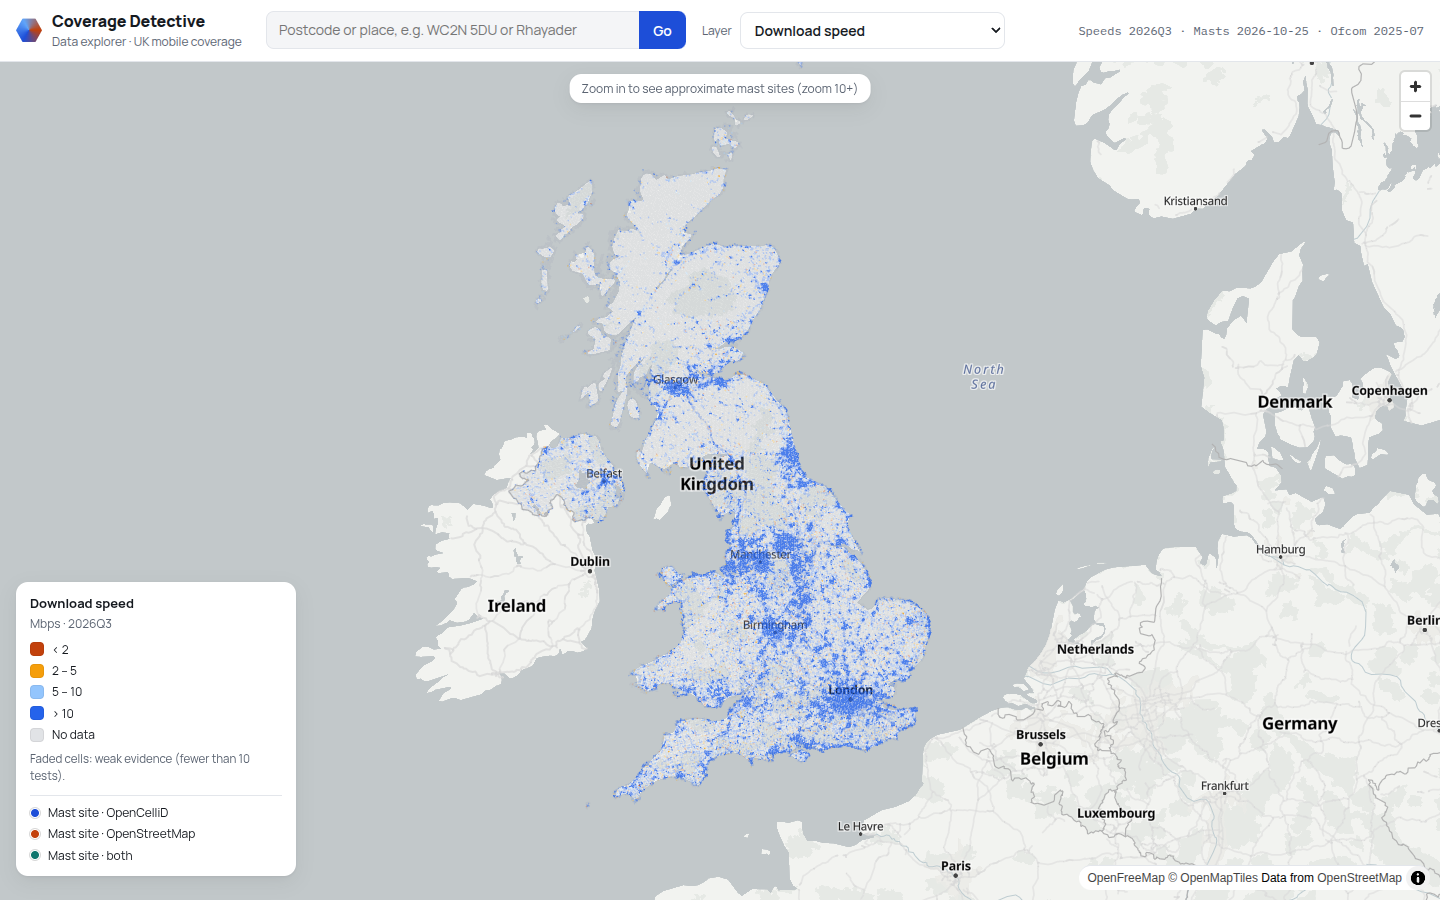
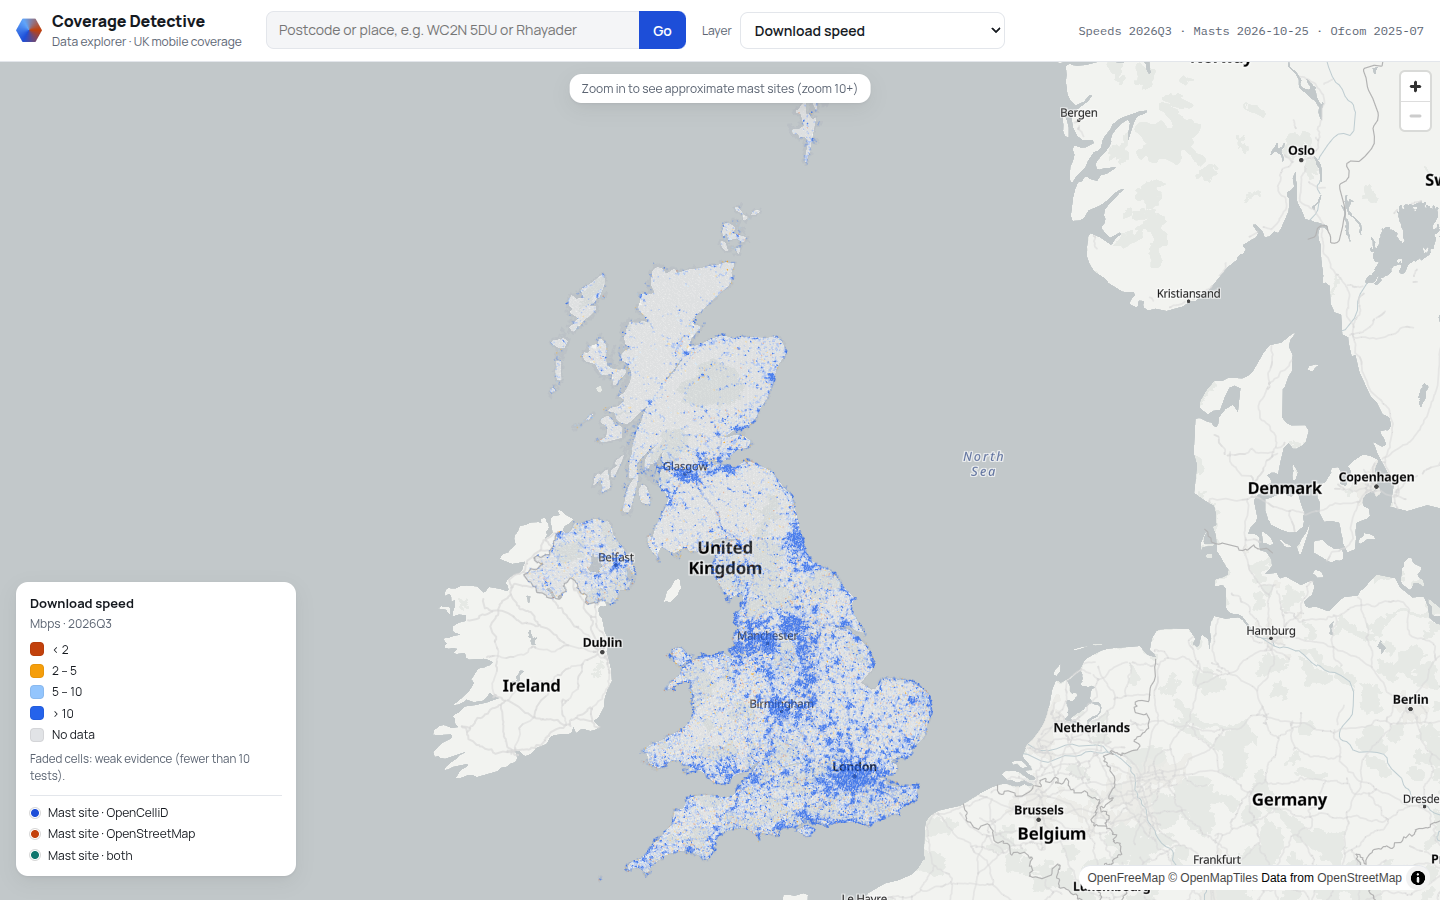
Explorer: keep the map on the UK
Zoom-out stops where the whole UK fits the screen (recomputed on resize), and
panning stops when the UK's edge reaches the screen's edge; the UK stays centred
when it fits. Clicks outside the grid (sea, abroad) are ignored.

diff --git a/web/app.js b/web/app.js
@@ -2,7 +2,12 @@
 "use strict";
 
 const BASEMAP = "https://tiles.openfreemap.org/styles/positron";
-const UK_VIEW = { center: [-3.2, 54.6], zoom: 4.9 };
+const UK_VIEW = { bounds: [[-8.7, 49.85], [1.9, 60.9]], fitBoundsOptions: { padding: 16 } };
+// The view is kept on the UK: zoom-out stops where the whole UK just fits the screen, and
+// panning stops when the UK's edge reaches the screen's edge (when the whole UK fits in a
+// direction, it stays centred). maxBounds is not used: it stops wide screens zooming out
+// far enough to see all of the UK.
+const UK_FIT = [[-8.7, 49.85], [1.9, 60.9]];
 const MAST_MIN_ZOOM = 10;
 const TILE_MIN_ZOOM = 12;
 const NO_DATA = [168, 174, 184, 70];
@@ -15,6 +20,7 @@ const state = {
   layer: null,         // selected layer metadata
   values: new Map(),   // cell_id -> [value, weak]
   grid: [],            // every cell id (from the population layer)
+  inGrid: new Set(),
   masts: [],
   tiles: [],
   selected: null,
@@ -47,7 +53,28 @@ async function getJSON(url) {
 
 /* ---------- map ---------- */
 
-const map = new maplibregl.Map({ container: "map", style: BASEMAP, ...UK_VIEW, attributionControl: { compact: true } });
+const map = new maplibregl.Map({
+  container: "map", style: BASEMAP, ...UK_VIEW, attributionControl: { compact: true },
+});
+function fitMinZoom() {
+  const camera = map.cameraForBounds(UK_FIT, { padding: 16 });
+  if (camera) map.setMinZoom(Math.max(3, camera.zoom));
+}
+fitMinZoom();
+map.on("resize", fitMinZoom);
+function keepUkInView() {
+  const { clientWidth: w, clientHeight: h } = map.getContainer();
+  const nw = map.project([UK_FIT[0][0], UK_FIT[1][1]]);
+  const se = map.project([UK_FIT[1][0], UK_FIT[0][1]]);
+  const shift = (lo, hi, size) =>
+    hi - lo <= size ? (lo + hi) / 2 - size / 2   // fits: centre it
+    : lo > 0 ? lo                                 // gap before the UK: move back
+    : hi < size ? hi - size                       // gap after the UK: move back
+    : 0;
+  const dx = shift(nw.x, se.x, w), dy = shift(nw.y, se.y, h);
+  if (Math.abs(dx) > 0.5 || Math.abs(dy) > 0.5) map.panBy([dx, dy], { animate: false });
+}
+map.on("move", keepUkInView);
 map.addControl(new maplibregl.NavigationControl({ showCompass: false }), "top-right");
 const overlay = new deck.MapboxOverlay({ interleaved: false, layers: [], getCursor: ({ isHovering }) => (isHovering ? "pointer" : "grab") });
 map.addControl(overlay);
@@ -222,7 +249,8 @@ function onHover(info) {
 function onMapClick(info) {
   if (!info.coordinate) return;
   const [lon, lat] = info.coordinate;
-  selectCell(h3.latLngToCell(lat, lon, 7));
+  const cell = h3.latLngToCell(lat, lon, 7);
+  if (state.inGrid.has(cell)) selectCell(cell);  // ignore clicks on the sea or abroad
 }
 
 /* ---------- side panel ---------- */
@@ -356,6 +384,7 @@ async function start() {
   select.addEventListener("change", () => loadLayer(select.value));
   renderDataDates();
   state.grid = (await getJSON("/api/layer/population")).map((r) => r[0]);
+  state.inGrid = new Set(state.grid);
   const params = new URLSearchParams(location.search);
   const first = params.get("layer") || "download_mbps";
   select.value = first;
